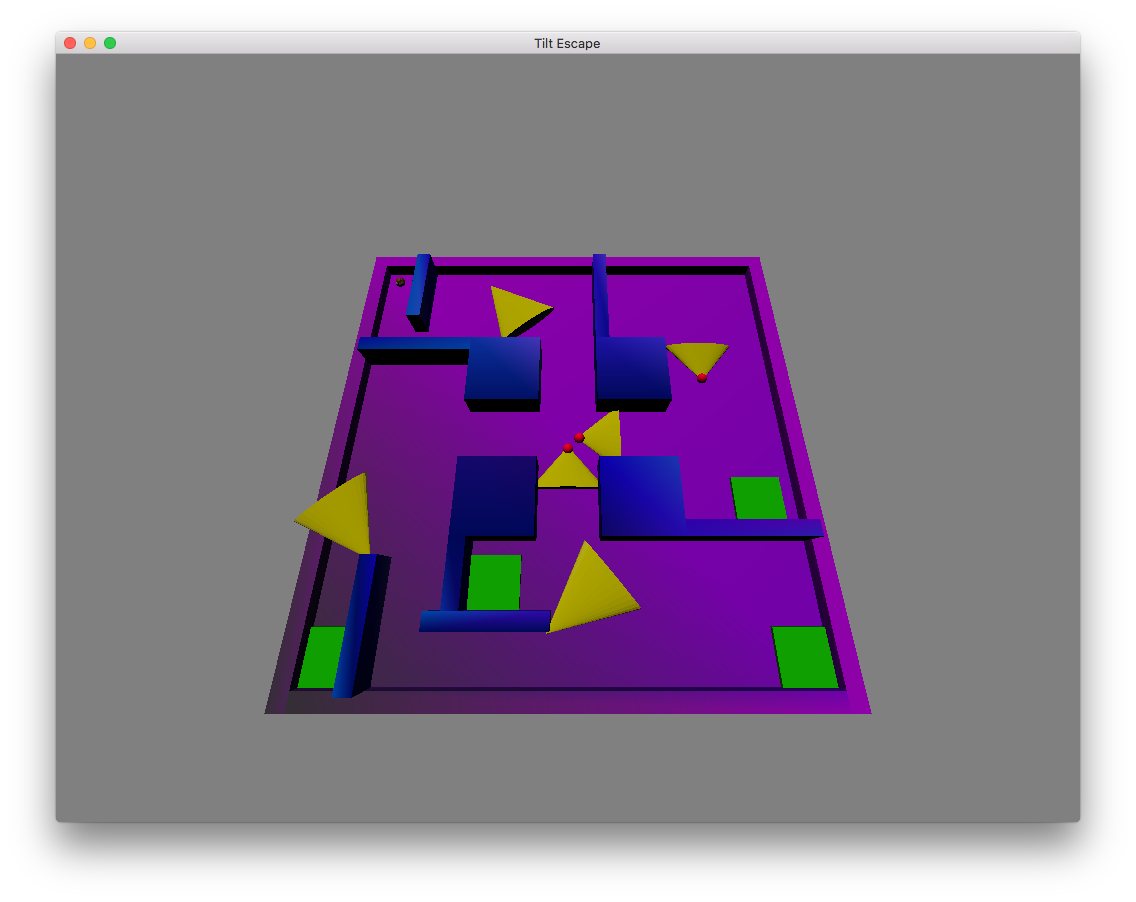
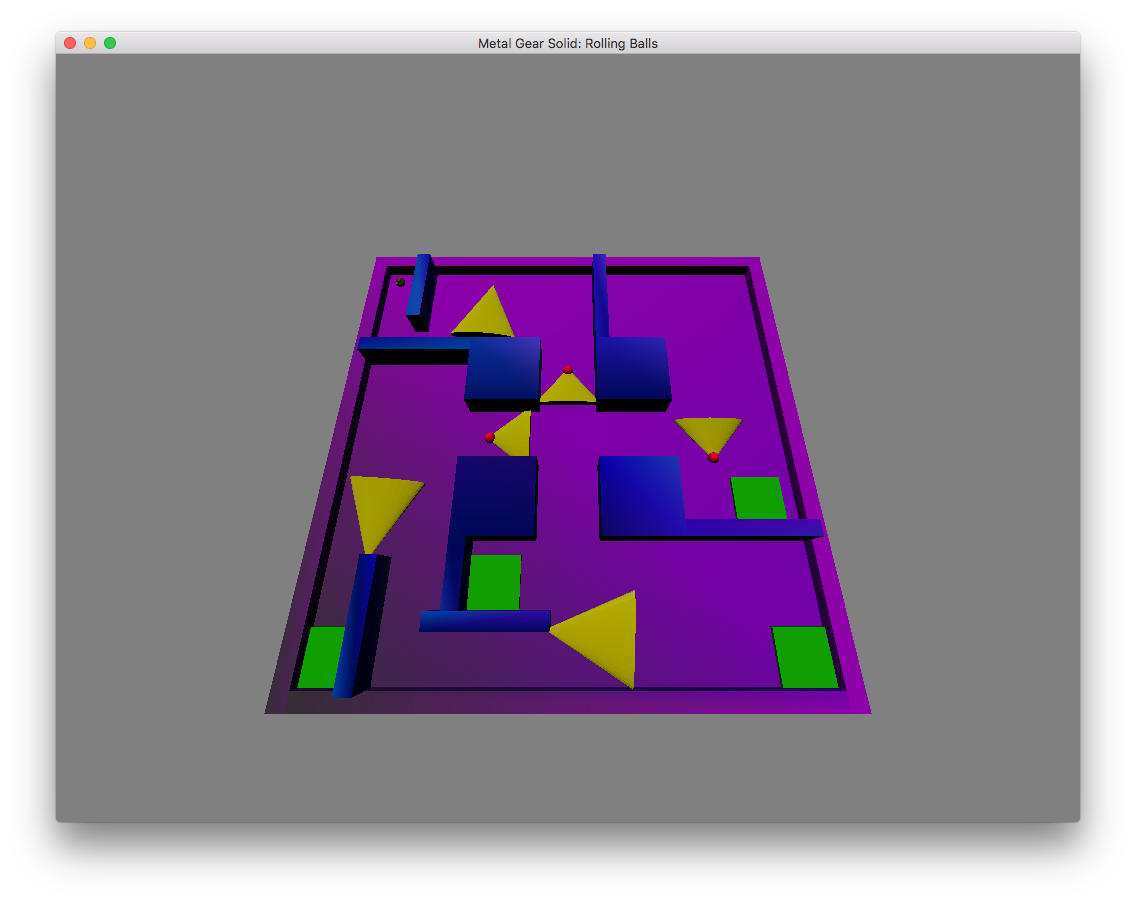
update document

diff --git a/main.cpp b/main.cpp
@@ -22,8 +22,7 @@
 
 int main(int argc, char **argv) {
 	struct {
-		//TODO: this is where you set the title and size of your game window
-		std::string title = "Tilt Escape";
+		std::string title = "Metal Gear Solid: Rolling Balls";
 		glm::uvec2 size = glm::uvec2(1024, 768);
 	} config;
 

diff --git a/README.md b/README.md
@@ -1,7 +1,7 @@
 # Game Information
 (Note: fill in this portion with information about your game.)
 
-Title: Metal Gear Solid: Tilt
+Title: Metal Gear Solid: Rolling Balls
 
 Author: Yu He (AndrewID: yuhe)
 
